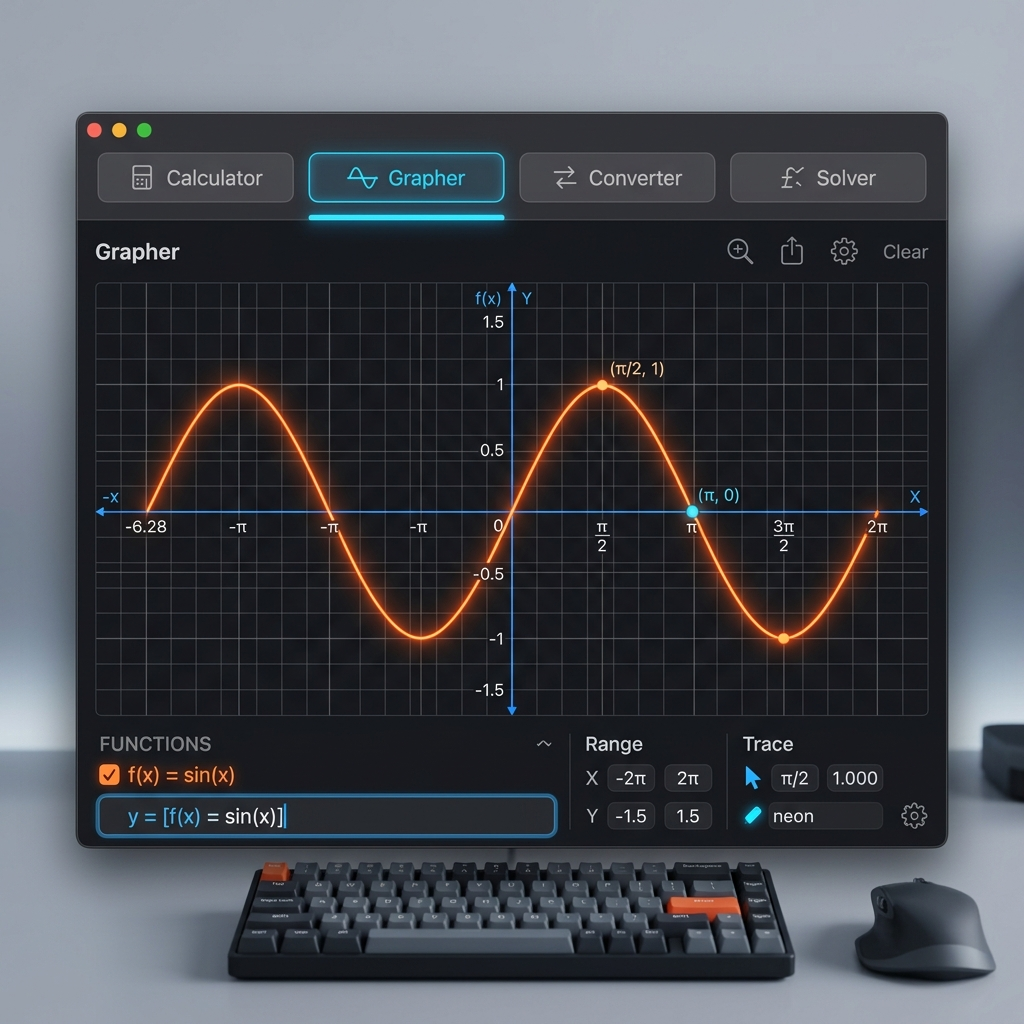
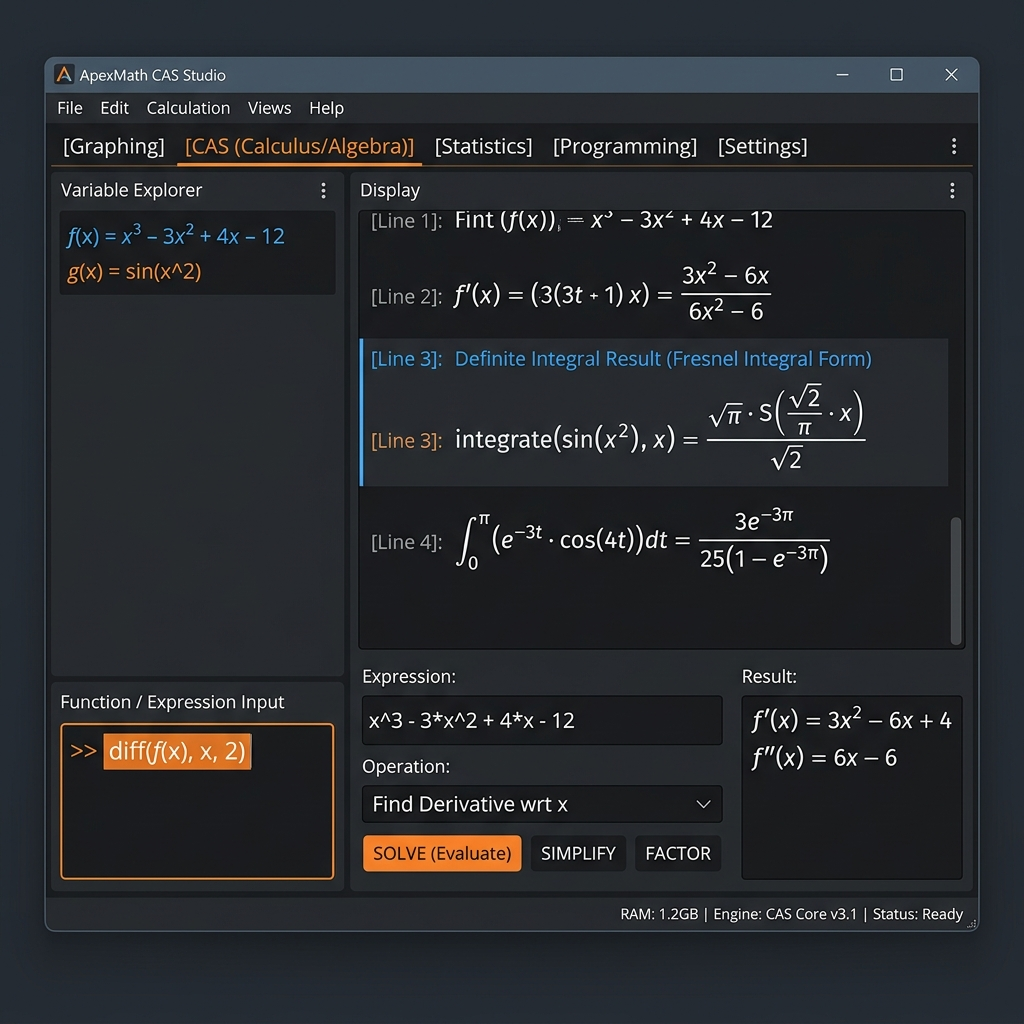
Add Symbolic Computer Algebra System (CAS) tab using sympy for calculus and equation solving

diff --git a/main.py b/main.py
@@ -4,6 +4,7 @@ import matplotlib
 matplotlib.use("TkAgg")
 from matplotlib.backends.backend_tkagg import FigureCanvasTkAgg
 from matplotlib.figure import Figure
+import sympy as sp
 
 # App configuration
 ctk.set_appearance_mode("Dark")
@@ -13,8 +14,8 @@ class AdvancedCalculatorSuite(ctk.CTk):
     def __init__(self):
         super().__init__()
 
-        self.title("Scientific & Graphing Calculator Suite")
-        self.geometry("550x850")
+        self.title("Scientific & Graphing CAS Calculator")
+        self.geometry("580x880")
         self.resizable(False, False)
 
         # Color System
@@ -36,7 +37,7 @@ class AdvancedCalculatorSuite(ctk.CTk):
         # Header Title
         self.header_label = ctk.CTkLabel(
             self,
-            text="CALCULATOR SUITE PRO",
+            text="ADVANCED CAS SUITE",
             font=("Inter", 18, "bold"),
             text_color="#A8A29E"
         )
@@ -48,11 +49,13 @@ class AdvancedCalculatorSuite(ctk.CTk):
 
         # Add tabs
         self.tab_calc = self.tabview.add("Calculator")
+        self.tab_cas = self.tabview.add("CAS (Calculus/Algebra)")
         self.tab_graph = self.tabview.add("Grapher")
         self.tab_convert = self.tabview.add("Converter")
         self.tab_solver = self.tabview.add("Solver")
 
         self.setup_calculator_tab()
+        self.setup_cas_tab()
         self.setup_grapher_tab()
         self.setup_converter_tab()
         self.setup_solver_tab()
@@ -258,8 +261,8 @@ class AdvancedCalculatorSuite(ctk.CTk):
             self.entry.insert(0, "Error")
 
     def handle_keyboard_input(self, event):
-        # Prevent input if active focus is inside other tab entry fields
         focused_widget = self.focus_get()
+        # Allow typing in other Entry fields naturally
         if isinstance(focused_widget, ctk.CTkEntry) and focused_widget != self.entry:
             return
 
@@ -275,13 +278,147 @@ class AdvancedCalculatorSuite(ctk.CTk):
         elif keysym == "Escape":
             self.clear_entry()
 
+    # ================= CAS TAB =================
+    def setup_cas_tab(self):
+        # Input Expression section
+        inp_frame = ctk.CTkFrame(self.tab_cas, fg_color="transparent")
+        inp_frame.pack(fill="x", padx=15, pady=10)
+
+        expr_label = ctk.CTkLabel(inp_frame, text="Math Expression (use x):", font=("Inter", 14, "bold"), text_color="#A8A29E")
+        expr_label.pack(anchor="w", pady=(5, 5))
+
+        self.cas_entry = ctk.CTkEntry(
+            inp_frame, 
+            placeholder_text="e.g. x**2 - 5*x + 6   or   sin(x)", 
+            font=("Inter", 16),
+            height=45
+        )
+        self.cas_entry.pack(fill="x", pady=5)
+        self.cas_entry.insert(0, "x**2 - 5*x + 6")
+
+        # Action Buttons Grid
+        act_frame = ctk.CTkFrame(self.tab_cas, fg_color="transparent")
+        act_frame.pack(fill="x", padx=15, pady=10)
+
+        for col in range(2):
+            act_frame.columnconfigure(col, weight=1, pad=10)
+
+        btn_solve = ctk.CTkButton(
+            act_frame, text="Solve for x", font=("Inter", 14, "bold"),
+            fg_color=self.btn_op_bg, hover_color=self.btn_op_hover,
+            height=40, command=self.cas_solve
+        )
+        btn_solve.grid(row=0, column=0, padx=5, pady=5, sticky="ew")
+
+        btn_diff = ctk.CTkButton(
+            act_frame, text="Derivative (d/dx)", font=("Inter", 14, "bold"),
+            fg_color=self.btn_fn_bg, hover_color=self.btn_fn_hover,
+            height=40, command=self.cas_diff
+        )
+        btn_diff.grid(row=0, column=1, padx=5, pady=5, sticky="ew")
+
+        btn_int = ctk.CTkButton(
+            act_frame, text="Integral (∫ dx)", font=("Inter", 14, "bold"),
+            fg_color=self.btn_fn_bg, hover_color=self.btn_fn_hover,
+            height=40, command=self.cas_integrate
+        )
+        btn_int.grid(row=1, column=0, padx=5, pady=5, sticky="ew")
+
+        btn_simp = ctk.CTkButton(
+            act_frame, text="Simplify", font=("Inter", 14, "bold"),
+            fg_color=self.btn_fn_bg, hover_color=self.btn_fn_hover,
+            height=40, command=self.cas_simplify
+        )
+        btn_simp.grid(row=1, column=1, padx=5, pady=5, sticky="ew")
+
+        # Result Display Area
+        res_frame = ctk.CTkFrame(self.tab_cas, fg_color=self.display_bg, corner_radius=12)
+        res_frame.pack(fill="both", expand=True, padx=15, pady=10)
+
+        res_title = ctk.CTkLabel(res_frame, text="CAS Symbolic Output:", font=("Inter", 12, "bold"), text_color="#78716C")
+        res_title.pack(anchor="w", padx=15, pady=(15, 5))
+
+        self.cas_output = ctk.CTkTextbox(
+            res_frame, 
+            font=("Consolas", 16, "bold"), 
+            fg_color="transparent", 
+            text_color="#FFFFFF"
+        )
+        self.cas_output.pack(fill="both", expand=True, padx=15, pady=(5, 15))
+        self.cas_output.insert("1.0", "Results will display here...")
+        self.cas_output.configure(state="disabled")
+
+    def update_cas_output(self, text):
+        self.cas_output.configure(state="normal")
+        self.cas_output.delete("1.0", "end")
+        self.cas_output.insert("1.0", text)
+        self.cas_output.configure(state="disabled")
+
+    def cas_solve(self):
+        try:
+            expr_str = self.cas_entry.get().strip()
+            if not expr_str:
+                return
+            x = sp.Symbol('x')
+            
+            # If user included an "=", split it and move everything to LHS
+            if "=" in expr_str:
+                lhs, rhs = expr_str.split("=")
+                eq = sp.sympify(lhs) - sp.sympify(rhs)
+            else:
+                eq = sp.sympify(expr_str)
+
+            solutions = sp.solve(eq, x)
+            output = f"Solving: {eq} = 0\n\nRoots found:\n"
+            for idx, sol in enumerate(solutions, 1):
+                output += f"x{idx} = {sol}\n"
+            self.update_cas_output(output)
+        except Exception as e:
+            self.update_cas_output(f"Error solving equation:\n{str(e)}")
+
+    def cas_diff(self):
+        try:
+            expr_str = self.cas_entry.get().strip()
+            if not expr_str:
+                return
+            x = sp.Symbol('x')
+            expr = sp.sympify(expr_str)
+            derivative = sp.diff(expr, x)
+            output = f"d/dx [ {expr} ]\n\n= {derivative}"
+            self.update_cas_output(output)
+        except Exception as e:
+            self.update_cas_output(f"Error differentiating:\n{str(e)}")
+
+    def cas_integrate(self):
+        try:
+            expr_str = self.cas_entry.get().strip()
+            if not expr_str:
+                return
+            x = sp.Symbol('x')
+            expr = sp.sympify(expr_str)
+            integral = sp.integrate(expr, x)
+            output = f"∫ [ {expr} ] dx\n\n= {integral} + C"
+            self.update_cas_output(output)
+        except Exception as e:
+            self.update_cas_output(f"Error integrating:\n{str(e)}")
+
+    def cas_simplify(self):
+        try:
+            expr_str = self.cas_entry.get().strip()
+            if not expr_str:
+                return
+            expr = sp.sympify(expr_str)
+            simplified = sp.simplify(expr)
+            output = f"Simplifying: {expr}\n\n= {simplified}"
+            self.update_cas_output(output)
+        except Exception as e:
+            self.update_cas_output(f"Error simplifying:\n{str(e)}")
+
     # ================= GRAPHER TAB =================
     def setup_grapher_tab(self):
-        # Config options
         control_frame = ctk.CTkFrame(self.tab_graph, fg_color="transparent")
         control_frame.pack(fill="x", padx=10, pady=10)
 
-        # Label & Entry for function f(x)
         fn_label = ctk.CTkLabel(control_frame, text="f(x) =", font=("Inter", 16, "bold"), text_color="#A8A29E")
         fn_label.grid(row=0, column=0, padx=5, pady=5, sticky="w")
 
@@ -294,7 +431,6 @@ class AdvancedCalculatorSuite(ctk.CTk):
         self.graph_fn_entry.grid(row=0, column=1, padx=5, pady=5)
         self.graph_fn_entry.insert(0, "math.sin(x)")
 
-        # X min/max ranges
         range_label = ctk.CTkLabel(control_frame, text="X range:", font=("Inter", 12), text_color="#78716C")
         range_label.grid(row=1, column=0, padx=5, pady=5, sticky="w")
 
@@ -317,11 +453,9 @@ class AdvancedCalculatorSuite(ctk.CTk):
         )
         plot_btn.grid(row=0, column=2, rowspan=2, padx=10, pady=5)
 
-        # Plot output Canvas Frame
         self.plot_frame = ctk.CTkFrame(self.tab_graph, fg_color=self.display_bg, corner_radius=12)
         self.plot_frame.pack(fill="both", expand=True, padx=10, pady=10)
 
-        # Empty initial plot setup
         self.fig = Figure(figsize=(5, 4), dpi=100, facecolor=self.display_bg)
         self.ax = self.fig.add_subplot(111)
         self.ax.set_facecolor(self.display_bg)
@@ -345,7 +479,6 @@ class AdvancedCalculatorSuite(ctk.CTk):
             if xmin >= xmax:
                 return
 
-            # Generate datapoints
             steps = 500
             x_vals = []
             y_vals = []
@@ -354,7 +487,6 @@ class AdvancedCalculatorSuite(ctk.CTk):
             for i in range(steps + 1):
                 x = xmin + i * dx
                 try:
-                    # Safely calculate expression y for given x
                     context = {"x": x, "math": math, "sin": math.sin, "cos": math.cos, "tan": math.tan, "pi": math.pi, "e": math.e}
                     y = eval(fn_str, {"__builtins__": None}, context)
                     x_vals.append(x)
@@ -373,13 +505,11 @@ class AdvancedCalculatorSuite(ctk.CTk):
             self.ax.grid(True, color='#2C2A29')
             self.canvas.draw()
 
-        except Exception as e:
-            # Revert to error label or state
+        except Exception:
             pass
 
     # ================= CONVERTER TAB =================
     def setup_converter_tab(self):
-        # Convert type selection
         sel_frame = ctk.CTkFrame(self.tab_convert, fg_color="transparent")
         sel_frame.pack(fill="x", padx=20, pady=15)
 
@@ -395,11 +525,9 @@ class AdvancedCalculatorSuite(ctk.CTk):
         )
         self.conv_category.pack(side="left", padx=10)
 
-        # Input & Output frame
         conv_grid = ctk.CTkFrame(self.tab_convert, fg_color=self.display_bg, corner_radius=12)
         conv_grid.pack(fill="both", expand=True, padx=20, pady=10)
 
-        # From Frame
         from_frame = ctk.CTkFrame(conv_grid, fg_color="transparent")
         from_frame.pack(fill="x", padx=20, pady=20)
 
@@ -411,11 +539,9 @@ class AdvancedCalculatorSuite(ctk.CTk):
         self.from_unit_combo = ctk.CTkComboBox(from_frame, values=["Meters", "Feet", "Inches", "Miles"], width=120)
         self.from_unit_combo.pack(side="right", padx=5)
 
-        # Arrow indicator
         arrow_label = ctk.CTkLabel(conv_grid, text="↓", font=("Inter", 28), text_color="#EA580C")
         arrow_label.pack(pady=5)
 
-        # To Frame
         to_frame = ctk.CTkFrame(conv_grid, fg_color="transparent")
         to_frame.pack(fill="x", padx=20, pady=20)
 
@@ -425,7 +551,6 @@ class AdvancedCalculatorSuite(ctk.CTk):
         self.to_unit_combo = ctk.CTkComboBox(to_frame, values=["Meters", "Feet", "Inches", "Miles"], width=120)
         self.to_unit_combo.pack(side="right", padx=5)
 
-        # Trigger initial conversion setup
         self.update_converter_units("Length")
 
     def update_converter_units(self, category):
@@ -452,20 +577,16 @@ class AdvancedCalculatorSuite(ctk.CTk):
             res = 0.0
 
             if category == "Length":
-                # Convert to base (Meters)
                 to_meters = {"Meters": 1.0, "Feet": 0.3048, "Inches": 0.0254, "Miles": 1609.34}
                 base = val * to_meters.get(unit_from, 1.0)
-                # Convert from base to target
                 from_meters = {"Meters": 1.0, "Feet": 3.28084, "Inches": 39.3701, "Miles": 0.000621371}
                 res = base * from_meters.get(unit_to, 1.0)
             elif category == "Weight":
-                # Convert to base (Grams)
                 to_grams = {"Grams": 1.0, "Kilograms": 1000.0, "Pounds": 453.592, "Ounces": 28.3495}
                 base = val * to_grams.get(unit_from, 1.0)
                 from_grams = {"Grams": 1.0, "Kilograms": 0.001, "Pounds": 0.00220462, "Ounces": 0.035274}
                 res = base * from_grams.get(unit_to, 1.0)
             else: # Temperature
-                # Convert to Celsius
                 if unit_from == "Celsius":
                     c = val
                 elif unit_from == "Fahrenheit":
@@ -473,7 +594,6 @@ class AdvancedCalculatorSuite(ctk.CTk):
                 else: # Kelvin
                     c = val - 273.15
 
-                # Convert Celsius to Target
                 if unit_to == "Celsius":
                     res = c
                 elif unit_to == "Fahrenheit":
@@ -487,7 +607,6 @@ class AdvancedCalculatorSuite(ctk.CTk):
 
     # ================= SOLVER TAB =================
     def setup_solver_tab(self):
-        # Choose Solver Type
         sel_frame = ctk.CTkFrame(self.tab_solver, fg_color="transparent")
         sel_frame.pack(fill="x", padx=20, pady=15)
 
@@ -500,11 +619,9 @@ class AdvancedCalculatorSuite(ctk.CTk):
         )
         self.solver_mode.pack(fill="x", padx=10)
 
-        # Solver inputs frame
         self.solver_grid = ctk.CTkFrame(self.tab_solver, fg_color=self.display_bg, corner_radius=12)
         self.solver_grid.pack(fill="both", expand=True, padx=20, pady=10)
 
-        # Placeholder label for solving output
         self.solve_res_label = ctk.CTkLabel(
             self.tab_solver, 
             text="Enter coefficients and click Solve", 
@@ -513,16 +630,13 @@ class AdvancedCalculatorSuite(ctk.CTk):
         )
         self.solve_res_label.pack(pady=15)
 
-        # Trigger Initial Layout
         self.toggle_solver_view("Quadratic Equation")
 
     def toggle_solver_view(self, mode):
-        # Clear solver grid
         for child in self.solver_grid.winfo_children():
             child.destroy()
 
         if mode == "Quadratic Equation":
-            # ax^2 + bx + c = 0
             title = ctk.CTkLabel(self.solver_grid, text="ax² + bx + c = 0", font=("Inter", 16, "bold"), text_color="#EA580C")
             title.pack(pady=10)
 
@@ -548,16 +662,12 @@ class AdvancedCalculatorSuite(ctk.CTk):
             solve_btn.pack(pady=15)
 
         else:
-            # 2x2 System:
-            # a1x + b1y = c1
-            # a2x + b2y = c2
             title = ctk.CTkLabel(self.solver_grid, text="System: ax + by = c", font=("Inter", 16, "bold"), text_color="#EA580C")
             title.pack(pady=10)
 
             inp_frame = ctk.CTkFrame(self.solver_grid, fg_color="transparent")
             inp_frame.pack(pady=10)
 
-            # Eq 1
             ctk.CTkLabel(inp_frame, text="Eq 1:").grid(row=0, column=0, padx=5, pady=5)
             self.entry_a1 = ctk.CTkEntry(inp_frame, width=50, placeholder_text="a1")
             self.entry_a1.grid(row=0, column=1, padx=2, pady=5)
@@ -571,7 +681,6 @@ class AdvancedCalculatorSuite(ctk.CTk):
             self.entry_c1.grid(row=0, column=5, padx=2, pady=5)
             self.entry_c1.insert(0, "8")
 
-            # Eq 2
             ctk.CTkLabel(inp_frame, text="Eq 2:").grid(row=1, column=0, padx=5, pady=5)
             self.entry_a2 = ctk.CTkEntry(inp_frame, width=50, placeholder_text="a2")
             self.entry_a2.grid(row=1, column=1, padx=2, pady=5)
@@ -579,7 +688,6 @@ class AdvancedCalculatorSuite(ctk.CTk):
             ctk.CTkLabel(inp_frame, text="x -").grid(row=1, column=2, padx=2, pady=5)
             self.entry_b2 = ctk.CTkEntry(inp_frame, width=50, placeholder_text="b2")
             self.entry_b2.grid(row=1, column=3, padx=2, pady=5)
-            self.entry_b2.insert(0, "1")  # represents -1y implicitly, let's keep inputs absolute coefficients
             self.entry_b2.insert(0, "-1")
             ctk.CTkLabel(inp_frame, text="y =").grid(row=1, column=4, padx=2, pady=5)
             self.entry_c2 = ctk.CTkEntry(inp_frame, width=50, placeholder_text="c2")
@@ -621,12 +729,9 @@ class AdvancedCalculatorSuite(ctk.CTk):
             c1 = float(self.entry_c1.get())
 
             a2 = float(self.entry_a2.get())
-            # Clean up default duplicate prepended value if present
-            b2_str = self.entry_b2.get()
-            b2 = float(b2_str)
+            b2 = float(self.entry_b2.get())
             c2 = float(self.entry_c2.get())
 
-            # Cramer's Rule
             D = a1 * b2 - b1 * a2
             if D == 0:
                 self.solve_res_label.configure(text="No unique solution (Determinant = 0)")